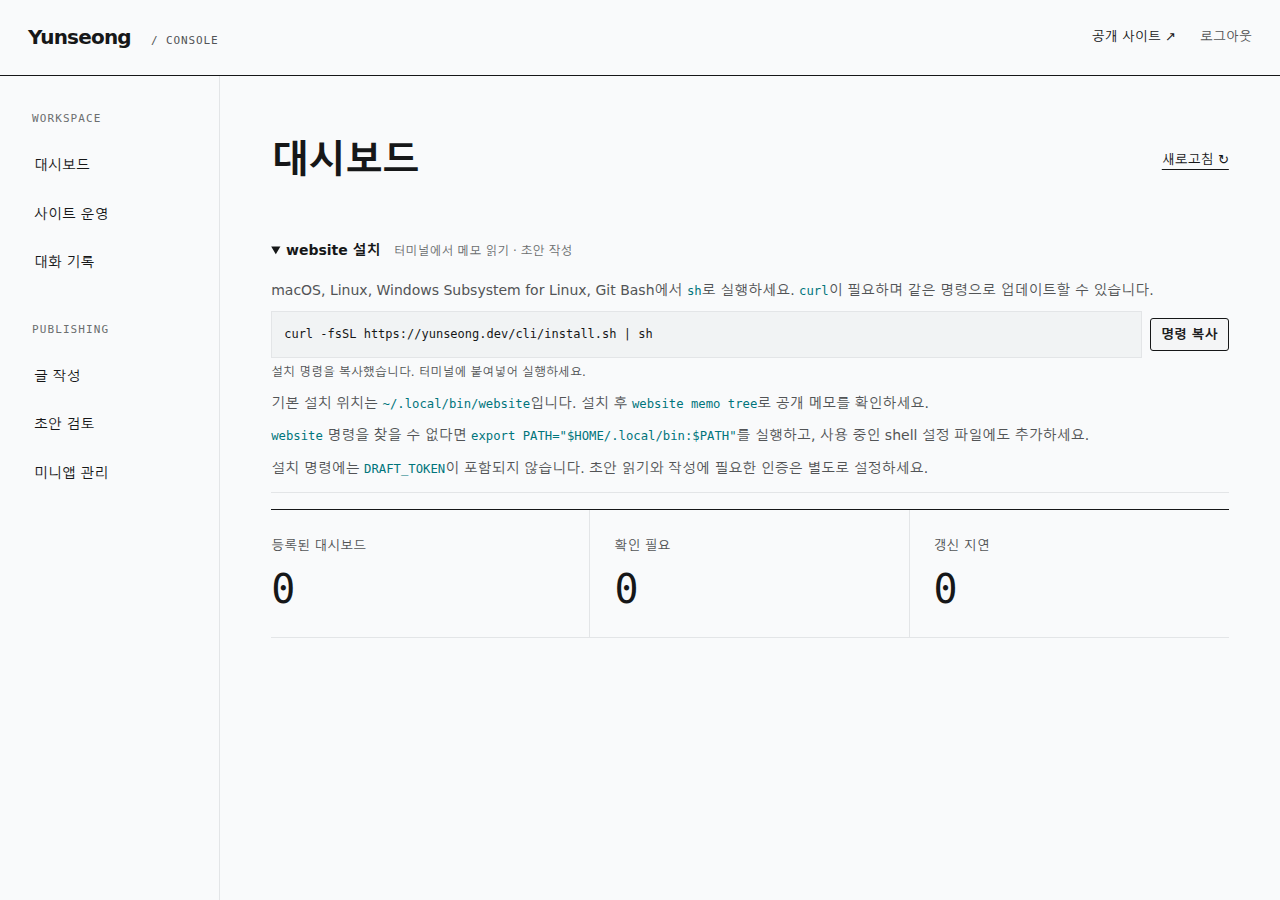
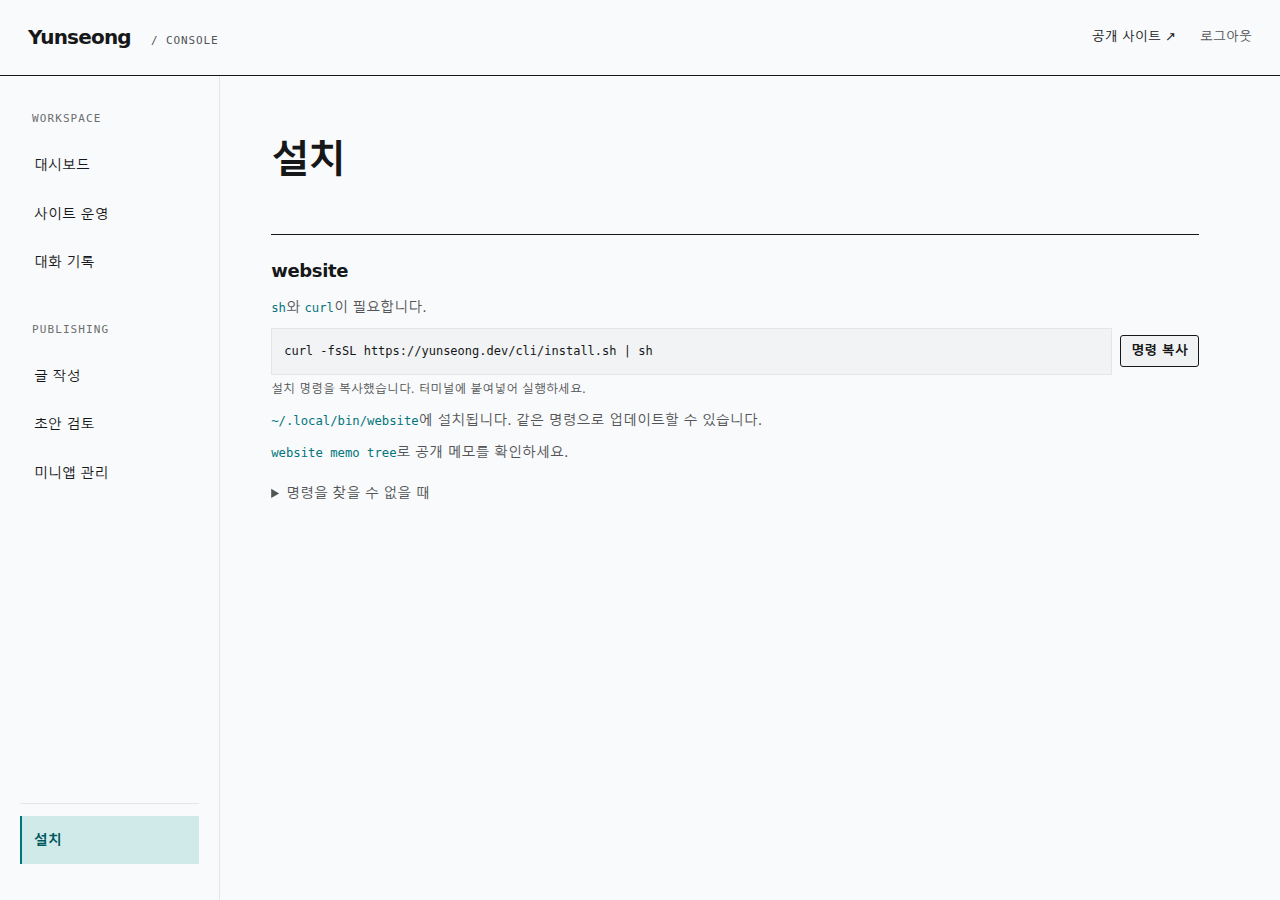
refactor: website 설치 안내를 별도 페이지로 이동

diff --git a/src/main/resources/templates/console/install.html b/src/main/resources/templates/console/install.html
@@ -1,0 +1,34 @@
+<!DOCTYPE html>
+<html xmlns:th="http://www.thymeleaf.org" xmlns:layout="http://www.ultraq.net.nz/thymeleaf/layout" layout:decorate="~{layout}">
+<head>
+    <title>설치 · Console</title>
+    <th:block layout:fragment="css">
+        <link rel="stylesheet" th:href="@{/css/website-install.css}">
+    </th:block>
+    <th:block layout:fragment="script">
+        <script th:src="@{/js/website-install.js}" defer></script>
+    </th:block>
+</head>
+<body><div layout:fragment="content">
+    <header class="workspace-heading">
+        <div><h1>설치</h1></div>
+    </header>
+    <section class="website-install" aria-labelledby="website-install-title">
+        <h2 id="website-install-title">website</h2>
+        <div class="website-install__body">
+            <p><code>sh</code>와 <code>curl</code>이 필요합니다.</p>
+            <div class="website-install__command-row">
+                <pre class="website-install__command"><code id="website-install-command" tabindex="0" aria-label="website 설치 명령">curl -fsSL https://yunseong.dev/cli/install.sh | sh</code></pre>
+                <button type="button" class="btn btn-sm btn-outline-secondary" id="website-install-copy" aria-describedby="website-install-feedback">명령 복사</button>
+            </div>
+            <p id="website-install-feedback" class="website-install__feedback" role="status" aria-live="polite" aria-atomic="true"></p>
+            <p><code>~/.local/bin/website</code>에 설치됩니다. 같은 명령으로 업데이트할 수 있습니다.</p>
+            <p><code>website memo tree</code>로 공개 메모를 확인하세요.</p>
+            <details class="website-install__path">
+                <summary>명령을 찾을 수 없을 때</summary>
+                <p><code>export PATH="$HOME/.local/bin:$PATH"</code>를 실행하고, 사용 중인 shell 설정 파일에도 추가하세요.</p>
+            </details>
+        </div>
+    </section>
+</div></body>
+</html>

diff --git a/src/main/resources/static/css/admin.css b/src/main/resources/static/css/admin.css
@@ -15,6 +15,7 @@
 .admin-sidebar nav a { display: flex; align-items: center; gap: 14px; padding: 12px; font-size: 14px; text-decoration: none; border-left: 2px solid transparent; }
 .admin-sidebar nav a:hover { background: var(--sunken); }
 .admin-sidebar nav a[aria-current] { color: var(--accent-soft-text); border-left-color: var(--accent); background: var(--accent-soft); font-weight: 650; }
+.admin-sidebar-footer { border-top: 1px solid var(--hairline); padding-top: 12px; }
 .admin-main { min-width: 0; width: 100%; max-width: 1600px; padding: 46px clamp(20px, 4vw, 64px) 80px; }
 .admin-main > .container, .admin-main .console.container { max-width: none; padding: 0; margin-top: 0 !important; }
 .workspace-heading { display: flex; justify-content: space-between; align-items: center; gap: 24px; margin-bottom: 36px; }
@@ -120,8 +121,9 @@
     .admin-topbar-actions { gap: 18px; }
     .admin-brand span { margin-left: 8px; font-size: 9px; }
     .admin-shell { display: block; }
-    .admin-sidebar { border-right: 0; border-bottom: 1px solid var(--hairline); padding: 12px 16px; }
+    .admin-sidebar { border-right: 0; border-bottom: 1px solid var(--hairline); padding: 12px 16px; gap: 4px; }
     .admin-sidebar nav { display: flex; flex-wrap: wrap; gap: 4px; }
+    .admin-sidebar-footer { border-top: 0; padding-top: 0; }
     .admin-sidebar nav a { font-size: 12px; padding: 9px; }
     .admin-sidebar .admin-nav-label { display: none; }
     .admin-main { padding: 28px 18px 48px; }

diff --git a/src/main/resources/static/css/website-install.css b/src/main/resources/static/css/website-install.css
@@ -1,24 +1,16 @@
 .website-install {
-  border-bottom: 1px solid var(--hairline);
+  border-top: 1px solid var(--border-strong);
   color: var(--text-secondary);
   font-size: var(--fs-body-sm);
-  margin-bottom: var(--sp-4);
-  padding-bottom: var(--sp-3);
+  max-width: 58rem;
+  padding-top: var(--sp-6);
 }
 
-.website-install > summary {
+.website-install h2 {
   color: var(--text-primary);
-  cursor: pointer;
+  font-size: var(--fs-h3);
   font-weight: 600;
-  padding: var(--sp-1) 0;
-}
-
-.website-install__summary-note {
-  color: var(--text-tertiary);
-  display: inline-block;
-  font-size: var(--fs-meta);
-  font-weight: 400;
-  margin-left: var(--sp-2);
+  margin: 0;
 }
 
 .website-install__body {
@@ -32,6 +24,18 @@
 
 .website-install__body p:last-child {
   margin-bottom: 0;
+}
+
+.website-install__path {
+  margin-top: var(--sp-4);
+}
+
+.website-install__path > summary {
+  cursor: pointer;
+}
+
+.website-install__path[open] > summary {
+  margin-bottom: var(--sp-2);
 }
 
 .website-install__command-row {

diff --git a/src/main/resources/templates/console/overview.html b/src/main/resources/templates/console/overview.html
@@ -2,19 +2,12 @@
 <html xmlns:th="http://www.thymeleaf.org" xmlns:layout="http://www.ultraq.net.nz/thymeleaf/layout" layout:decorate="~{layout}">
 <head>
     <title>대시보드 · Console</title>
-    <th:block layout:fragment="css">
-        <link rel="stylesheet" th:href="@{/css/website-install.css}">
-    </th:block>
-    <th:block layout:fragment="script">
-        <script th:src="@{/js/website-install.js}" defer></script>
-    </th:block>
 </head>
 <body><div layout:fragment="content">
     <header class="workspace-heading">
         <div><h1>대시보드</h1></div>
         <a class="admin-text-link" href="/admin/console">새로고침 ↻</a>
     </header>
-    <div th:replace="~{console/fragments/website_install :: installation}"></div>
     <div class="workspace-stats" role="group" aria-label="대시보드 요약">
         <div><span>등록된 대시보드</span><strong th:text="${projects.size()}">0</strong></div>
         <div><span>확인 필요</span><strong th:text="${blockedCount}">0</strong></div>

diff --git a/src/main/resources/templates/fragments/admin_navigation.html b/src/main/resources/templates/fragments/admin_navigation.html
@@ -18,5 +18,8 @@
         <a href="/admin/console/drafts" th:attr="aria-current=${adminSection == 'drafts' ? 'page' : null}">초안 검토</a>
         <a href="/admin/miniapps" th:attr="aria-current=${adminSection == 'apps' ? 'page' : null}">미니앱 관리</a>
     </nav>
+    <nav class="admin-sidebar-footer" aria-label="설치 메뉴">
+        <a href="/admin/console/install" th:attr="aria-current=${adminSection == 'install' ? 'page' : null}">설치</a>
+    </nav>
 </aside>
 </html>

diff --git a/src/test/java/dev/yunseong/website/manage/ConsoleIntegrationTest.java b/src/test/java/dev/yunseong/website/manage/ConsoleIntegrationTest.java
@@ -55,13 +55,37 @@ class ConsoleIntegrationTest {
     private String report;
 
     @Test
-    void overviewIncludesWebsiteInstallationAndCopyControls() throws Exception {
+    void overviewLinksToInstallationWithoutLoadingInstallationControls() throws Exception {
         mvc.perform(get("/admin/console").with(user("admin")))
                 .andExpect(status().isOk())
+                .andExpect(content().string(containsString("href=\"/admin/console/install\"")))
+                .andExpect(content().string(not(containsString("curl -fsSL https://yunseong.dev/cli/install.sh | sh"))))
+                .andExpect(content().string(not(containsString("id=\"website-install-copy\""))))
+                .andExpect(content().string(not(containsString("/js/website-install.js"))))
+                .andExpect(content().string(not(containsString("/css/website-install.css"))));
+    }
+
+    @Test
+    void installationPageIncludesCommandCopyControlsAndCurrentNavigation() throws Exception {
+        MvcResult result = mvc.perform(get("/admin/console/install").with(user("admin")))
+                .andExpect(status().isOk())
+                .andExpect(view().name("console/install"))
+                .andExpect(model().attribute("pageTitle", "설치 · Console"))
+                .andExpect(model().attribute("adminSection", "install"))
                 .andExpect(content().string(containsString("curl -fsSL https://yunseong.dev/cli/install.sh | sh")))
                 .andExpect(content().string(containsString("id=\"website-install-copy\"")))
                 .andExpect(content().string(containsString("/js/website-install.js")))
-                .andExpect(content().string(containsString("/css/website-install.css")));
+                .andExpect(content().string(containsString("/css/website-install.css")))
+                .andReturn();
+        assertThat(result.getResponse().getContentAsString(StandardCharsets.UTF_8))
+                .containsPattern("<a\\b(?=[^>]*\\bhref=\"/admin/console/install\")(?=[^>]*\\baria-current=\"page\")[^>]*>");
+    }
+
+    @Test
+    void installationPageRedirectsAnonymousVisitorsToLogin() throws Exception {
+        mvc.perform(get("/admin/console/install"))
+                .andExpect(status().is3xxRedirection())
+                .andExpect(redirectedUrlPattern("**/login"));
     }
 
     @Test

diff --git a/src/main/java/dev/yunseong/website/manage/controller/ConsoleController.java b/src/main/java/dev/yunseong/website/manage/controller/ConsoleController.java
@@ -12,6 +12,13 @@ import org.springframework.web.bind.annotation.RequestParam;
 @RequiredArgsConstructor
 public class ConsoleController {
 
+    @GetMapping("/install")
+    public String install(Model model) {
+        model.addAttribute("pageTitle", "설치 · Console");
+        model.addAttribute("adminSection", "install");
+        return "console/install";
+    }
+
     @GetMapping("/traffic")
     public String console(Model model,
                           @RequestParam(defaultValue = "7") int days,

diff --git a/src/main/java/dev/yunseong/website/manage/controller/AdminLayoutAdvice.java b/src/main/java/dev/yunseong/website/manage/controller/AdminLayoutAdvice.java
@@ -13,6 +13,7 @@ public class AdminLayoutAdvice {
             return null;
         }
         if (path.startsWith("/admin/console/drafts")) return "drafts";
+        if (path.equals("/admin/console/install")) return "install";
         if (path.startsWith("/admin/console/traffic") || path.startsWith("/admin/console/requests")) return "traffic";
         if (path.startsWith("/admin/chat")) return "chat";
         if (path.startsWith("/admin/memos")) return "memo";

diff --git a/src/test/java/dev/yunseong/website/global/config/WebSecurityConfigTest.java b/src/test/java/dev/yunseong/website/global/config/WebSecurityConfigTest.java
@@ -90,6 +90,7 @@ class WebSecurityConfigTest {
     @ParameterizedTest
     @ValueSource(strings = {
             "/admin/console",
+            "/admin/console/install",
             "/admin/chat",
             "/admin/memos",
             "/admin/memos/new",

diff --git a/.plan/issues/2026-11-05-issue-233-website-cli-installation.md b/.plan/issues/2026-11-05-issue-233-website-cli-installation.md
@@ -2,7 +2,7 @@
 
 - Date: 2026-11-05
 - GitHub Issue: #233
-- Status: Implemented; draft pull request 준비
+- Status: Implemented; draft pull request #234
 
 ## Goal
 
@@ -14,7 +14,7 @@ package registry 배포, production 서버 변경, 토큰 배포, 기존 명령 
 
 ## Context / Constraints
 
-`bin/website`를 단일 원본으로 유지한다. 설치 script와 실행 파일은 `/cli/install.sh`, `/cli/website`로 익명 접근을 허용한다. 기본 설치 위치는 `~/.local/bin/website`이며 관리자 권한과 shell 설정 파일 변경 없이 설치한다. 같은 명령으로 업데이트한다. 최신 `main`의 `website skills install`을 지원하기 위해 skill과 예제도 `.website`에 설치한다. 관리자 안내는 `/admin/console`의 대시보드 첫 페이지에 배치한다.
+`bin/website`를 단일 원본으로 유지한다. 설치 script와 실행 파일은 `/cli/install.sh`, `/cli/website`로 익명 접근을 허용한다. 기본 설치 위치는 `~/.local/bin/website`이며 관리자 권한과 shell 설정 파일 변경 없이 설치한다. 같은 명령으로 업데이트한다. 최신 `main`의 `website skills install`을 지원하기 위해 skill과 예제도 `.website`에 설치한다. 설치 안내는 `/admin/console/install`의 별도 페이지에서 제공한다. 왼쪽 관리자 메뉴 하단에 설치 링크를 표시하며 모바일에서는 마지막 메뉴로 표시한다. 대시보드에는 설치 안내를 넣지 않는다.
 
 ## Approach (Checklist)
 - [x] **Step 0: Recon** — 관리자 template, 공개 경로 whitelist, Gradle resource 처리, 기존 shell process 테스트 확인.
@@ -33,3 +33,9 @@ package registry 배포, production 서버 변경, 토큰 배포, 기존 명령 
 
 ## Open Questions
 - 없음. 설치 주소는 사용자 지정 `/cli/install.sh`를 사용한다.
+
+## 설치 페이지 이동
+
+- [x] 대시보드의 설치 안내를 `/admin/console/install`로 이동하고 관리자 메뉴 하단에 설치 링크 추가.
+- [x] 로그인 필요, 메뉴 선택 표시, 대시보드에서 설치 안내 제거 검증. `./gradlew test`: 776개 통과, 실패·오류·건너뜀 0개.
+- [x] 데스크톱·모바일 screen capture 갱신. 기존 draft pull request #234에 반영한다.

diff --git a/README.md b/README.md
@@ -112,8 +112,8 @@ directory. All downloads must finish before the current installation is replaced
 
 Installation does not include or configure `DRAFT_TOKEN`. Public memo reads
 work without authentication; configure draft authentication separately as
-described below. The admin console also offers the installation command with
-a copy button.
+described below. Open Installation at the bottom of the admin sidebar to
+copy the command from `/admin/console/install`.
 
 ## Public memo automation
 
